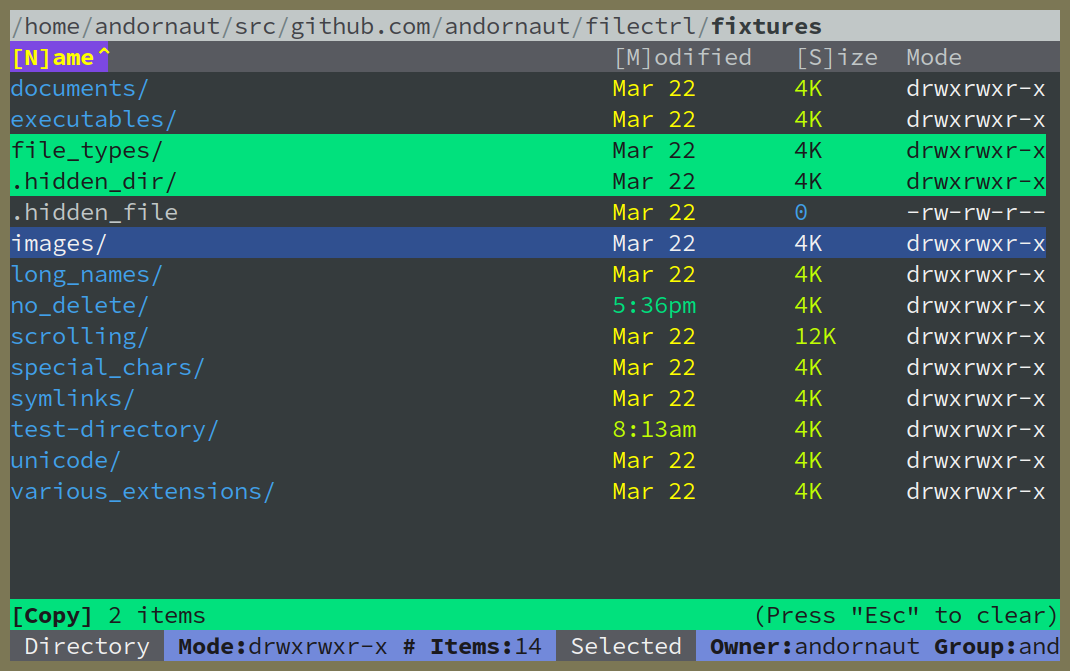
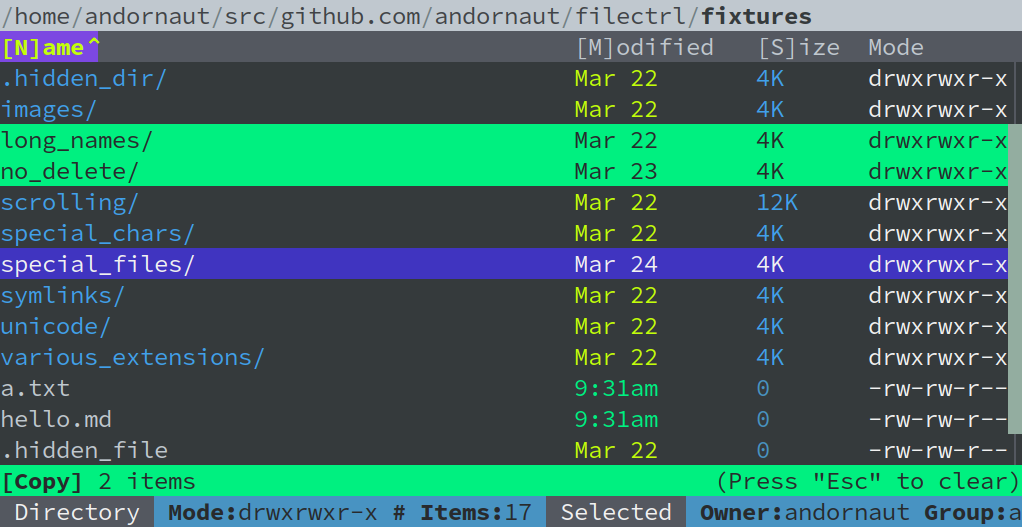
Make screenshot images clickable, update screenshot files

diff --git a/README.md b/README.md
@@ -2,7 +2,7 @@
 
 FileCTRL is a light, opinionated, responsive, theme-able, and simple Text User Interface (TUI) file manager for Linux and macOS
 
-![IBM1970 theme](./screenshots/IBM1970.png)
+[![IBM1970 theme](./screenshots/IBM1970.png)](./screenshots/IBM1970.png)
 
 ## Features
 
@@ -290,7 +290,7 @@ FileCTRL includes the following themes in the [`themes/`](themes/) directory:
 Theme | Inspired by | Screenshot
 ----- | ----------- | ----------
 [IBM1970](themes/ibm1970.toml) (default) | [vscode-ibm1970-theme](https://github.com/andornaut/vscode-ibm1970-theme) | ![IBM1970](./screenshots/IBM1970.png)
-[42KM](themes/42km.toml) | [vscode-42km-theme](https://github.com/andornaut/vscode-42km-theme) | ![42KM](./screenshots/42KM.png)
+[42KM](themes/42km.toml) | [vscode-42km-theme](https://github.com/andornaut/vscode-42km-theme) | [![42KM](./screenshots/42KM.png)](./screenshots/42KM.png)
 
 ```bash
 filectrl --include themes/42km.toml